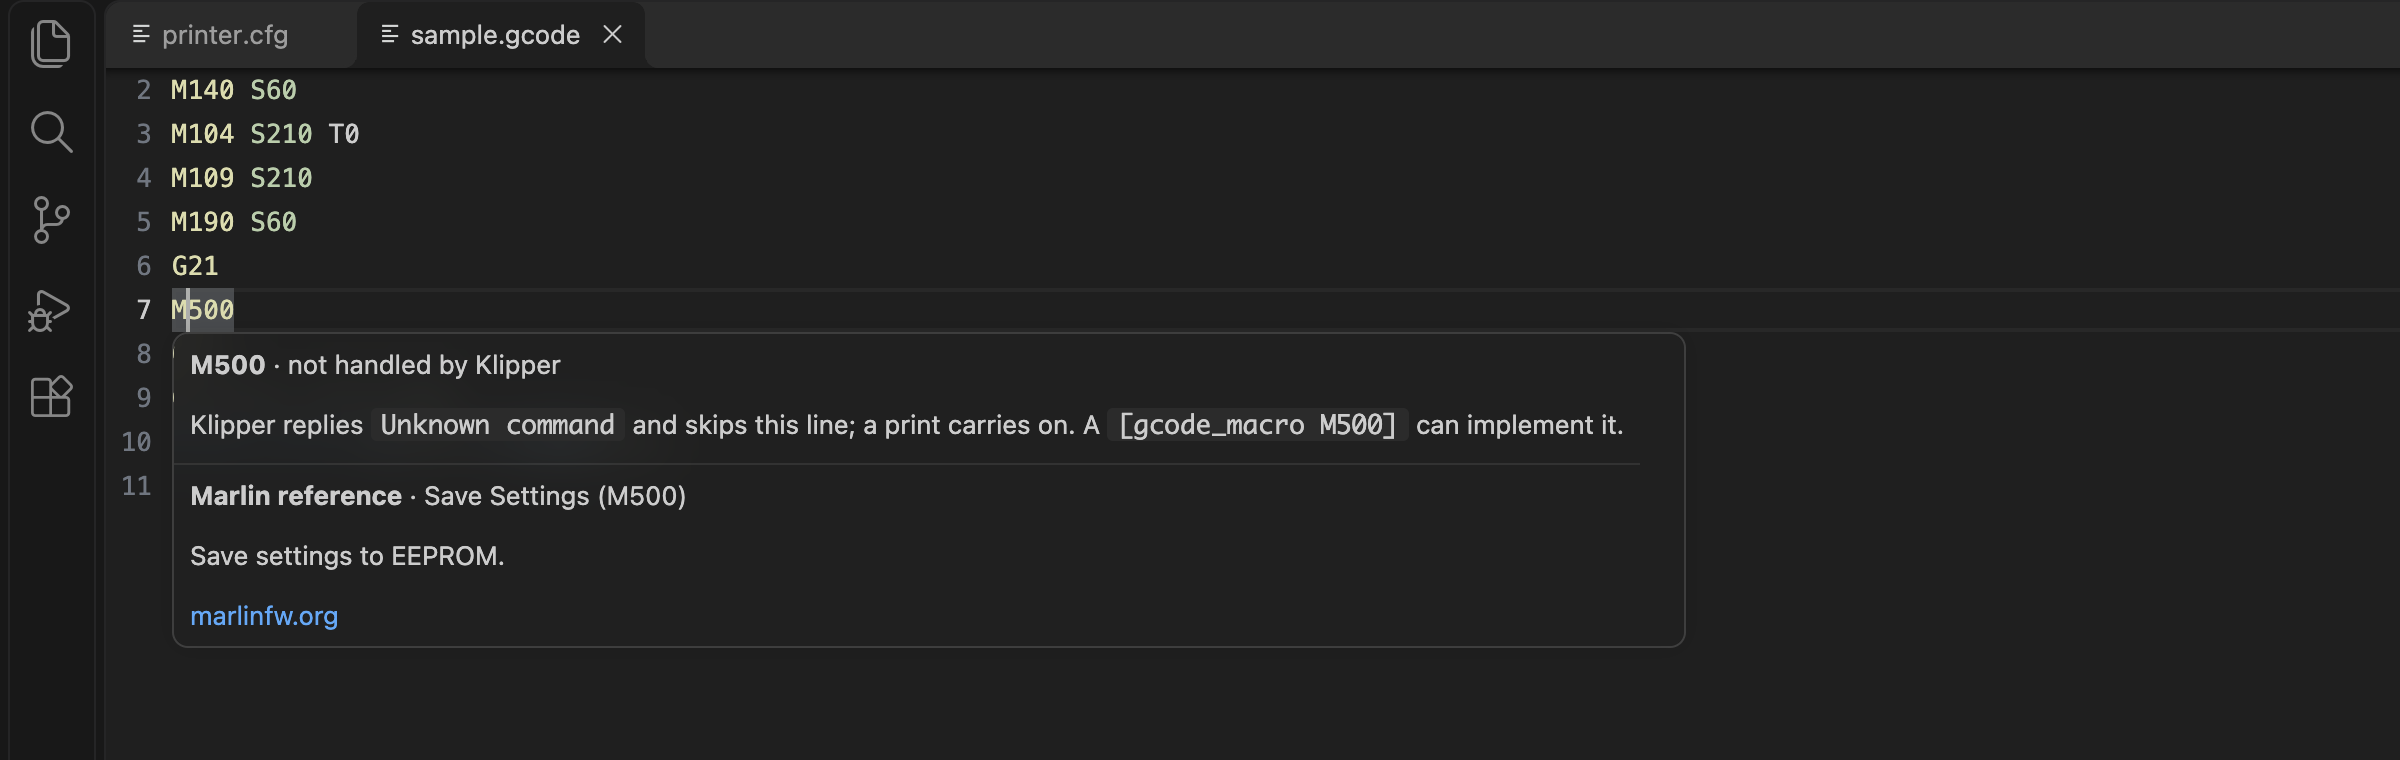
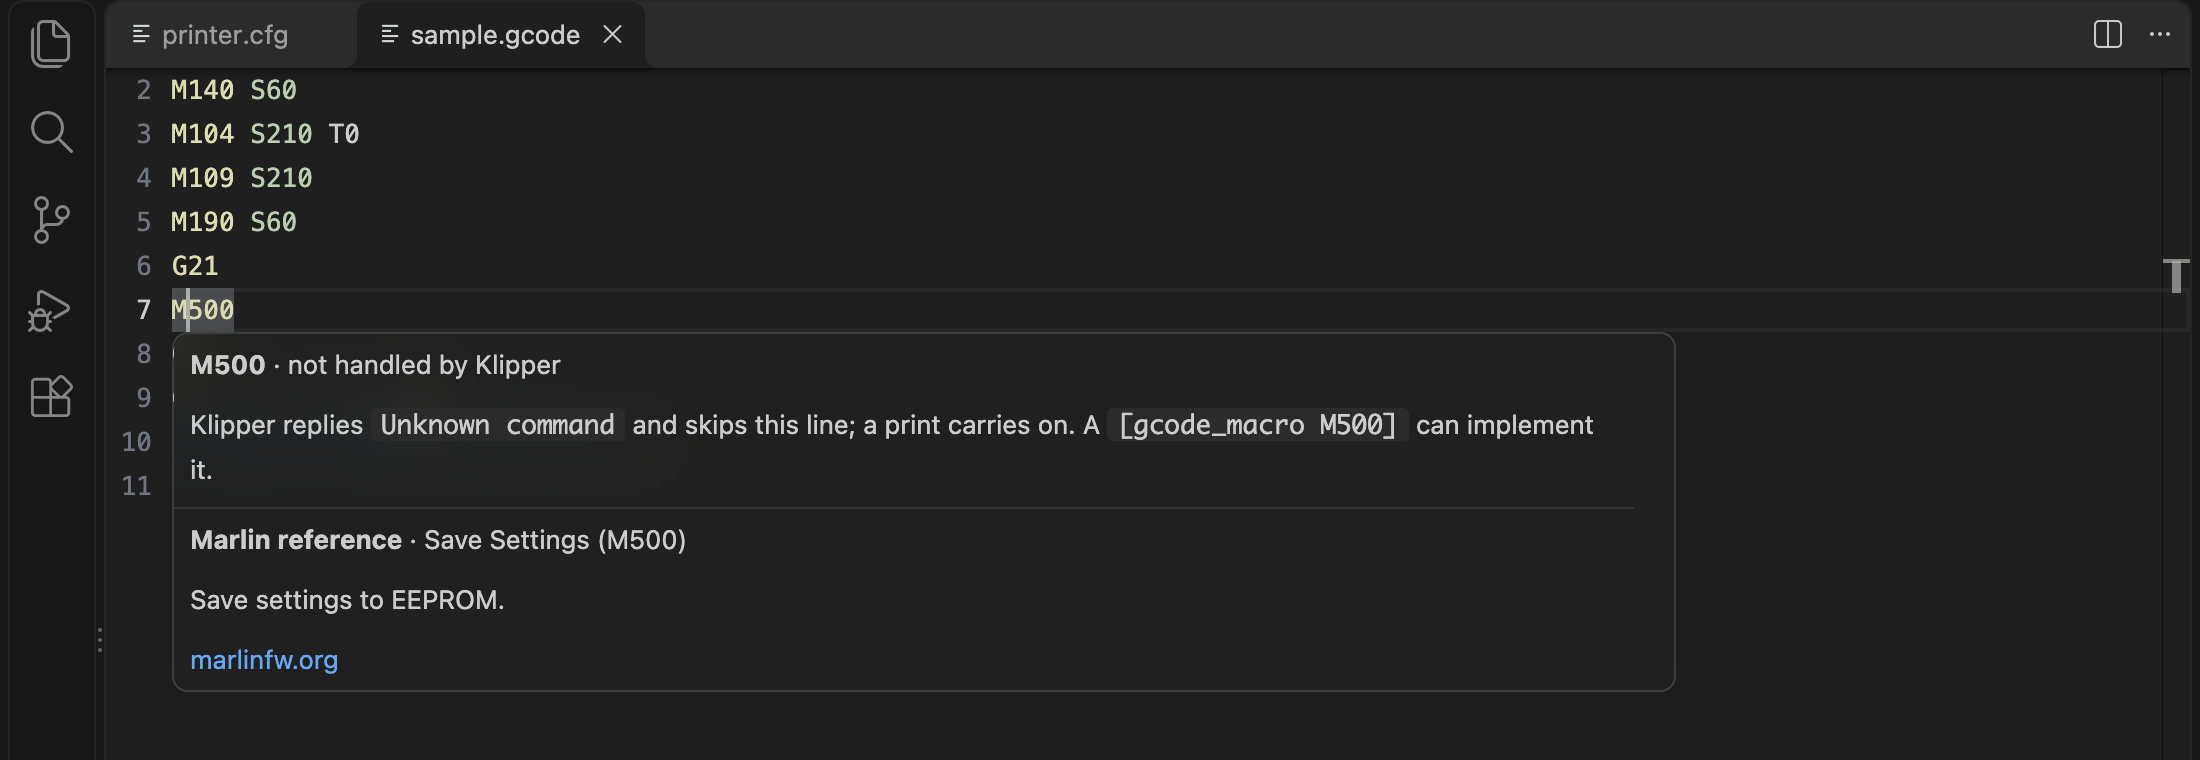
Screenshots: retake at a smaller window (resized through Accessibility)

diff --git a/editors/vscode-klipper-ls/test/screenshots/suite.ts b/editors/vscode-klipper-ls/test/screenshots/suite.ts
@@ -28,12 +28,12 @@ interface Shot {
 }
 
 const SHOTS: Shot[] = [
-  { name: "hover-macro", file: "printer.cfg", at: "HEAT_SOAK MINUTES", keep: 380, width: 1200, show: "hover", expect: "Wait for the bed" },
-  { name: "peek-definition", file: "printer.cfg", at: "HEAT_SOAK MINUTES", keep: 650, width: 1440, show: "peek" },
-  { name: "hover-status-field", file: "printer.cfg", at: "homed_axes !=", keep: 280, width: 1200, show: "hover", expect: "homed" },
-  { name: "hover-config-option", file: "printer.cfg", at: "rotation_distance", keep: 380, width: 1200, show: "hover", expect: "Distance" },
-  { name: "hover-gcode-ignored-parameter", file: "sample.gcode", at: "M140 S60", keep: 430, width: 1200, show: "hover", expect: "Ignored by Klipper" },
-  { name: "hover-gcode-unknown-code", file: "sample.gcode", at: "M500", keep: 380, width: 1200, show: "hover", expect: "Unknown command" },
+  { name: "hover-macro", file: "printer.cfg", at: "HEAT_SOAK MINUTES", keep: 345, width: 1100, show: "hover", expect: "Wait for the bed" },
+  { name: "peek-definition", file: "printer.cfg", at: "HEAT_SOAK MINUTES", keep: 580, width: 1100, show: "peek" },
+  { name: "hover-status-field", file: "printer.cfg", at: "homed_axes !=", keep: 280, width: 1100, show: "hover", expect: "homed" },
+  { name: "hover-config-option", file: "printer.cfg", at: "rotation_distance", keep: 380, width: 1100, show: "hover", expect: "Distance" },
+  { name: "hover-gcode-ignored-parameter", file: "sample.gcode", at: "M140 S60", keep: 430, width: 1100, show: "hover", expect: "Ignored by Klipper" },
+  { name: "hover-gcode-unknown-code", file: "sample.gcode", at: "M500", keep: 380, width: 1100, show: "hover", expect: "Unknown command" },
 ];
 
 /** The window's CoreGraphics id and its width in points. */
@@ -83,9 +83,35 @@ async function hoverText(uri: vscode.Uri, pos: vscode.Position): Promise<string>
     .join("\n");
 }
 
+/** Resizes the VS Code test window (points). Needs Accessibility permission; skipped, not fatal, without it. */
+function resizeWindow(width: number, height: number) {
+  const script = `
+    tell application "System Events"
+      repeat with p in (every process whose background only is false)
+        try
+          repeat with w in windows of p
+            if name of w contains "${title}" then
+              set position of w to {40, 40}
+              set size of w to {${width}, ${height}}
+              return "resized"
+            end if
+          end repeat
+        end try
+      end repeat
+    end tell
+    return "not found"`;
+  try {
+    console.log(`window: ${execFileSync("osascript", ["-e", script], { encoding: "utf8" }).trim()}`);
+  } catch (error) {
+    console.log(`window left at its default size (${String(error).split("\n")[0]})`);
+  }
+}
+
 export async function run(): Promise<void> {
   fs.mkdirSync(out, { recursive: true });
   const root = vscode.workspace.workspaceFolders![0].uri.fsPath;
+  resizeWindow(1100, 700);
+  await sleep(1500);
   for (const cmd of ["workbench.action.closeSidebar", "workbench.action.closePanel", "workbench.action.closeAuxiliaryBar"]) {
     await vscode.commands.executeCommand(cmd);
   }
